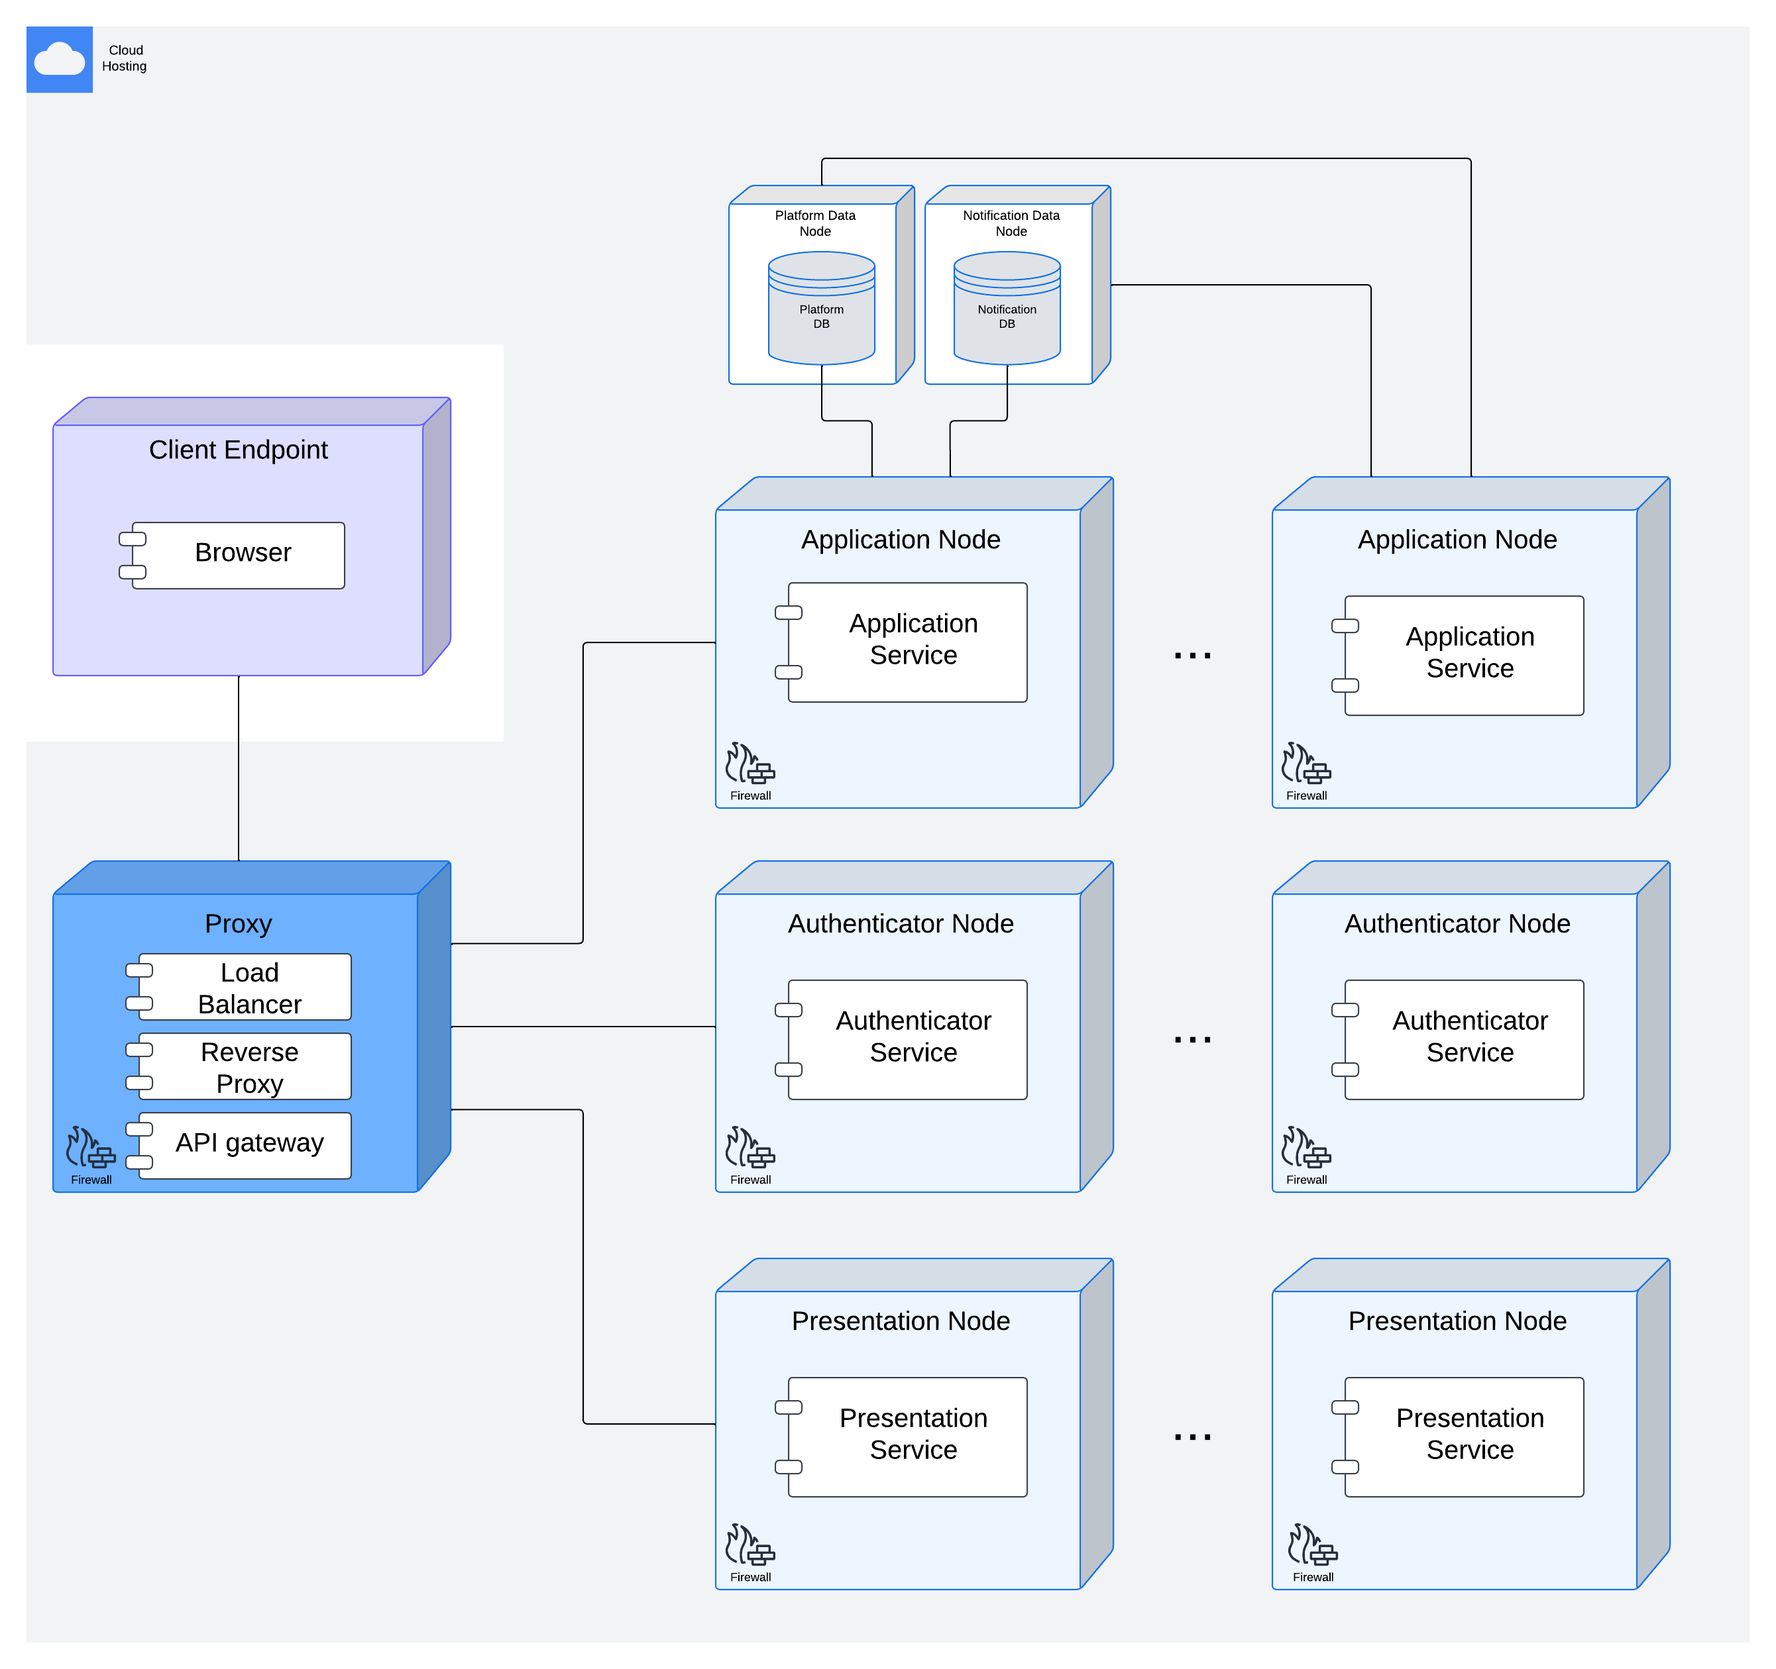
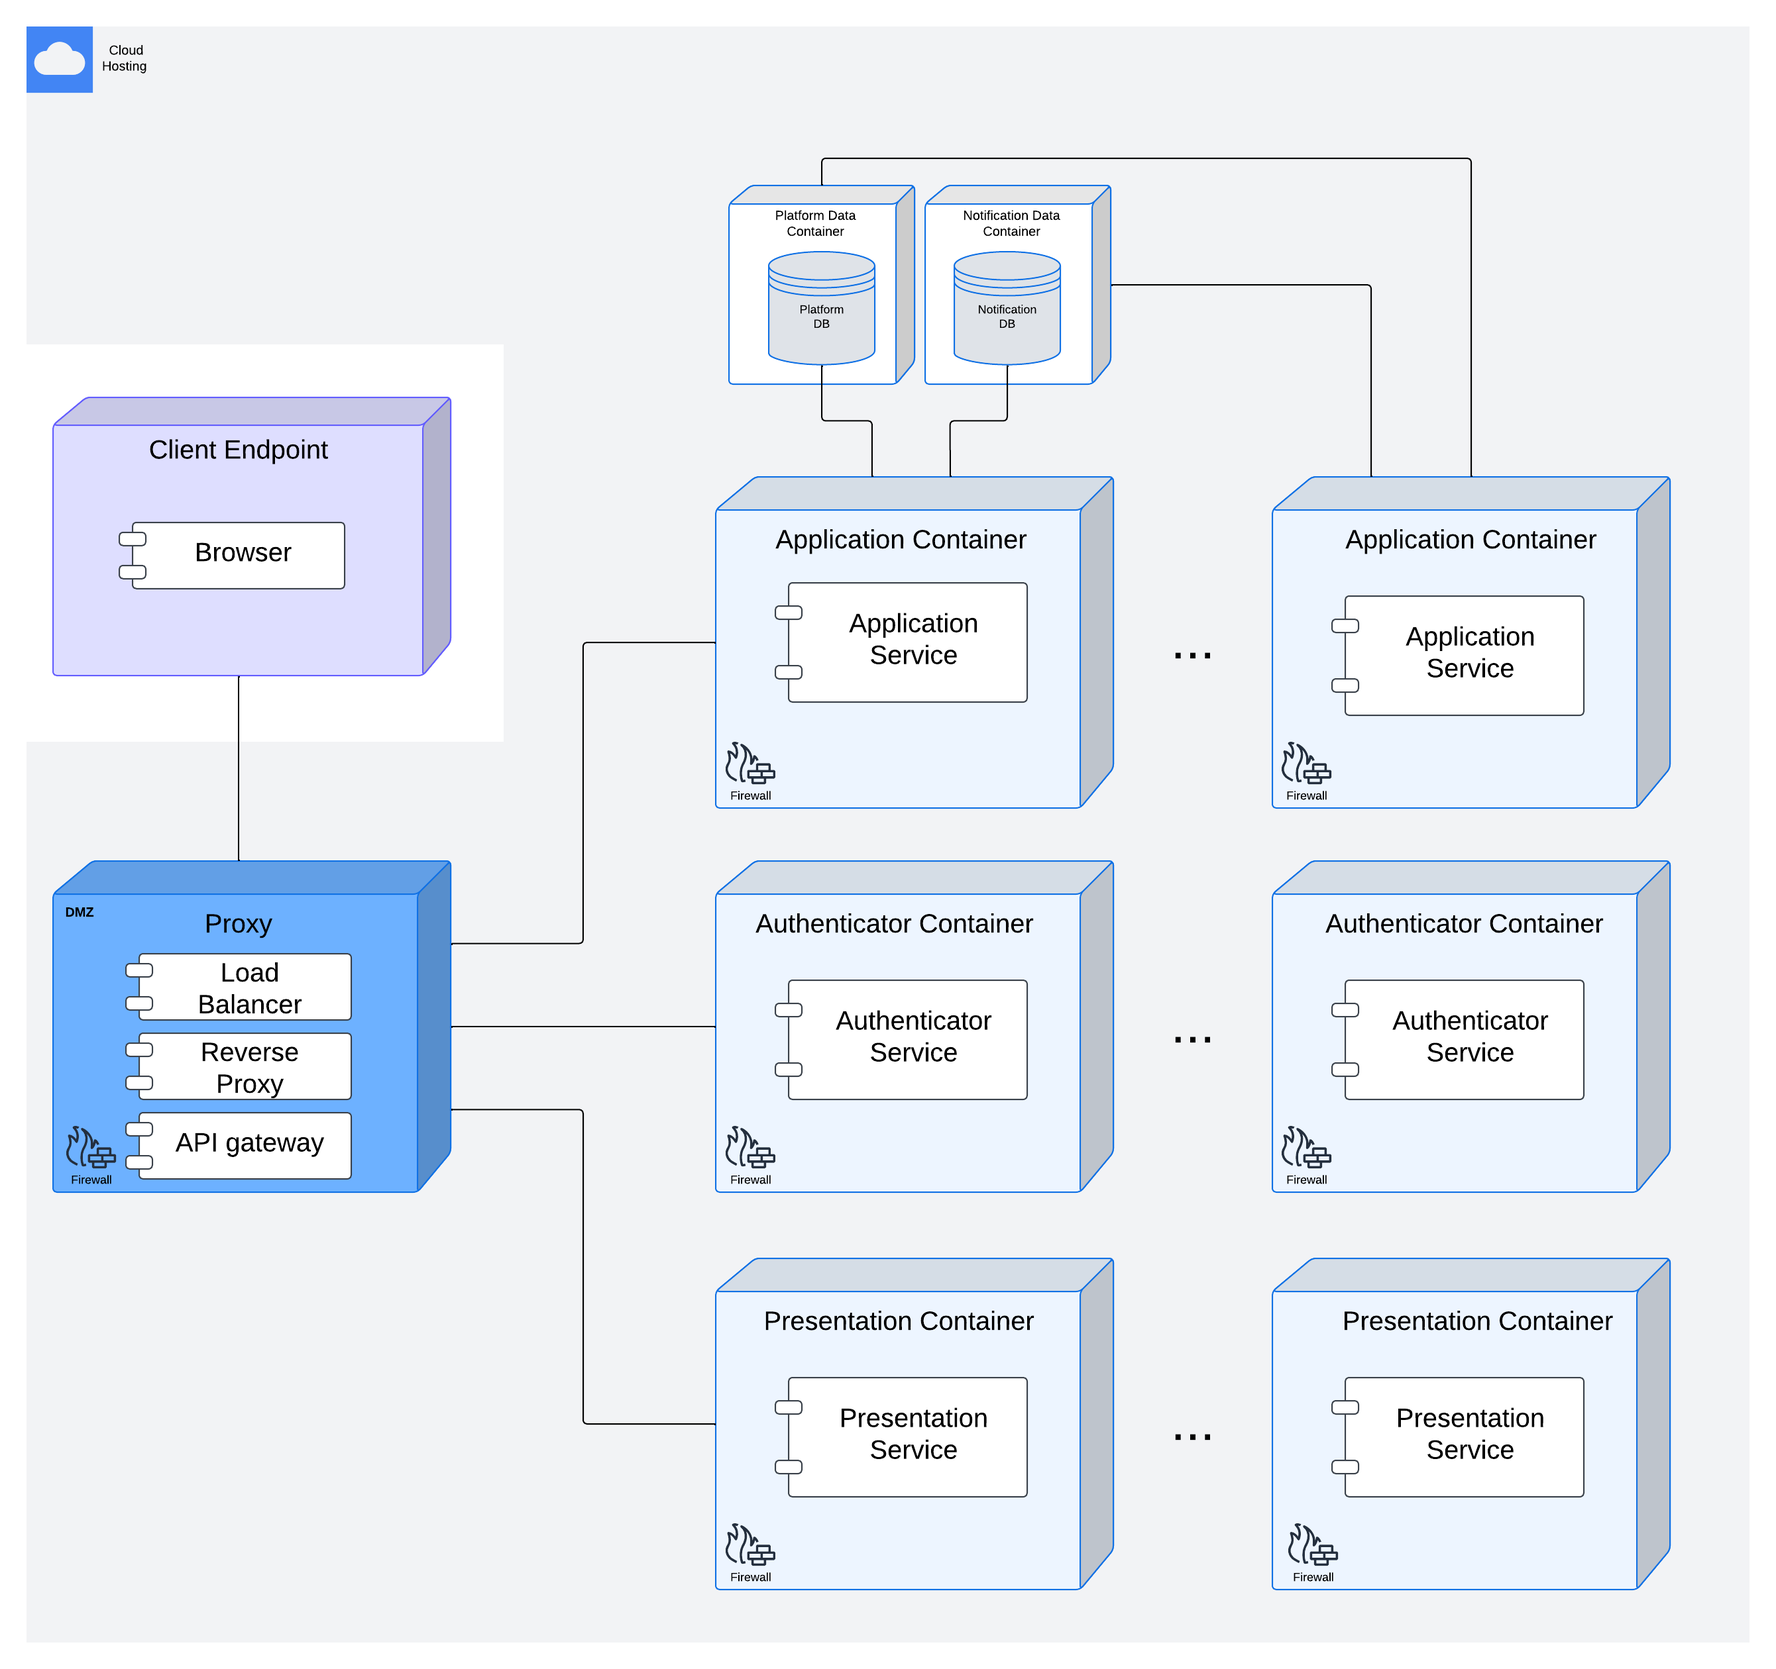
Refactor Chapter 2

diff --git a/DD.md b/DD.md
@@ -24,16 +24,13 @@ In the remaining part of this chapter we will present a summary of the technical
 
 ### 1.2 Scope
 
-This document, Design Document (DD), will provide a detailed description of the architecture of the S\&C platform from a more technical point of view. In particular it will provide a thorough description of the software with a special emphasis on its interfaces, system module, and architectural framework.
+This document, Design Document (DD), will provide a detailed description of the architecture of the S\&C platform from a more technical point of view. In particular it will provide a thorough description of the software with a special emphasis on its interfaces, system modules, and architectural framework.
 This document will also discuss the implementation, integration and testing plan describing the tools and methodologies that will be used during the development of the platform.
 <!-- (Sam 1h)-->
 
 #### 1.2.1 Main architectural choices
 
 The chosen architectural style is a *microservices architecture*, as it enables a scalable and modular approach to development. The three main services are Presentation, Application, and Authenticator, which are responsible for the user interface, business logic, and authentication, respectively. Data-intensive service manage their data through autonomous databases, ensuring modularity and scalability. For now, the databases are not designed to scale horizontally, meaning that when services using them are duplicated, the database remains a single, centralized instance. The Presentation layer provides the client with a Single Page Application (SPA) for a smoother user experience. The Application layer contains modules that handle platform-specific logic services, which could be exported as independent services in the future. This setup facilitates reliability and fault tolerance, as each service is designed to be container-based and can be scaled vertically or horizontally using cloud orchestration tools during deployment.
-<!-- 
-The architecture of the platform adopt a 3-tier architecture where the front-end is implemented using a web application that communicates with the back-end through a RESTful API.
-The back-end, implemented using the Spring framework, will be responsible for the business logic of the platform, as well as the communication to the database, as it will be described in the following chapters while the front-end, following a lightweight architecture, is responsible only for the presentation of the data and the interaction with the user and will be implemented using the React framework. -->
 
 ### 1.3 Definitions, Acronyms, Abbreviations
 
@@ -138,53 +135,86 @@ Finally, we present a deployment view of a full system deployment with redundant
 ## 2 Architectural Design
 
 The purpose of this chapter is to present a top-down description of the S&C architectural design, covering and justifying every design decision.
-We begin by introducing the high-level components and their interactions, followed by a detailed description of these components through the component view, focusing on their internal structure.
-Next, we address the deployment and conclude with runtime views, represented through sequence diagrams, to illustrate the interactions between the components.
+First, we introduce the high-level components and their interactions.
+Next, we proceed with a detailed description of these components.
+Subsequently, we define the deployment strategy.
+After that, we address the runtime interactions of the components and provide a more detailed description of their interfaces.
+Finally, we conclude by outlining the main patterns adopted and other relevant design decisions.
 
 ### 2.1 Overview: High-level components and their interaction
 
-The system employs a simple microservices architecture composed of the Presentation, Application, and Authenticator services, along with databases to manage the Application data. This microservices structure enables the system to be scalable and adaptable to increasing demand. Additionally, it supports deeper decoupling and modularization in the future, facilitating the management of growing service complexity.
+The system employs a simple microservices architecture composed of the Presentation, Application, and Authenticator services, along with databases to manage the Application data.
+This microservices structure enables the system to scale and adapt to increasing demand. Additionally, it supports greater decoupling and modularization, facilitating the management of growing service complexity in the future.
 
-Client access to server content is handled by a proxy, which routes requests to the appropriate service. When users navigate to the platform's main domain using a browser, the proxy directs them to the Presentation service, which is responsible for the user interface and experience. The web interface communicates with the Application service via a RESTful API, which handles the business logic. The Application interacts with the databases through an API that manages the ORM, data life cycles, and querying processes.
+Client access to server content is handled by a proxy, which routes requests to the appropriate service.
+When users navigate to the platform's main domain using a browser, the proxy directs them to the Presentation service, responsible for providing the user interface and experience.
 
-The Authenticator service handles user authentication. Non-public API calls pass through the proxy, acting as an API gateway, to verify that users have the necessary permissions to access requested resources.
+The web interface communicates with the Application service via a RESTful API that handles the business logic.
+All service calls from the client-hosted presentation layer pass through the proxy, which analyzes and forwards the requests.
+
+Requests requiring authentication are routed to the Authenticator service, which acts as middleware to handle all user authentication processes.
+If authentication succeeds, the request is forwarded to the Application service.
+
+The Application service interacts with databases through APIs that manage the ORM, data life cycles, and querying processes.
 
 ![Overview](./Diagrams/DD/Overview0.png)
 
-#### 2.1.1 Presentation Service
+#### Proxy
+
+Every type of communication between the services is routed through the Proxy, which dispatches it to the appropriate service. This means that the IP address of the server hosting the Proxy is the one bound to the application's main domain.
+
+#### Presentation Service
 
 The Presentation service delivers static content to the client upon connection to the platform's main domain. It also provides the client with the web scripts needed to call the APIs of the Application service, enabling the retrieval of user-specific data and triggering the platform's logic. During runtime, API calls to other services are initiated directly from the client's endpoints, rather than being forwarded through the Presentation service.
 
-#### 2.1.2 Authenticator Service
+#### Application Service
 
-API calls can be either public or private. Public calls are accessible to non-authenticated users, while private calls handle personal user data or sensitive logic and require authentication before they can be executed. All API calls are routed through the proxy, which determines the appropriate service based on the call type: private calls are directed to the Authenticator service for validation, while public calls are forwarded directly to the target service. This centralized approach to authentication ensures consistency across all services, eliminating the need for each service to handle authentication independently.
+The Application service contains the platform's core functionalities, including platform logic, database interaction, and notification handling. It exposes various RESTful API endpoints for the different services it provides. These endpoints can be either public or private. Public endpoints are accessible to non-authenticated users, while private endpoints handle personal user data or sensitive logic and require authentication before execution. Every call to these endpoints first reaches the Proxy, which forwards requests intended for private endpoints to the Authenticator service, while directing others directly to the target service.
 
-#### 2.1.3 Application Service
+#### Authenticator Service
 
-The Application service contains the platform core functionalities such as the platform logic, the interaction with the database and the notification handling. It exposes different APIs for all the different services it offers.
+The Authenticator service is responsible for every process concerning authentication and session validation.
+
+#### Databases
+
+The databases are managed by the Application service and are used to store all the data required by the platform. This setup could change in the future if an internal component of the Application service needs to be exported to an autonomous service, for example, due to increasing complexity or the need to decouple its development environment. Databases are not handled as autonomous services accessible by all other services; instead, they directly and exclusively interact with their corresponding service logic.
 
 ### 2.2 Component view
 
-This section presents a more in depth view of the software components part of the designed architecture and the needed interfaces between them.
+This section provides a more in-depth view of the software components that are part of the designed architecture, as well as the necessary interfaces between them.
+
 ![Overview](./Diagrams/DD/Component0.png)
 
 #### 2.2.1 Entity Manager
 
-This Entity Manager act as an API that enables the communication with a DBMS, simplifying ORM, querying, and data life cycles. It provides standard methods, independents from the specific DBMS used to handle the data. As shown by the diagram there are two entity managers. The \emph{Platform Entity Manager} provides its interface to the Platform Logic Module to let it interact with the \emph{Platform DBMS}. The \emph{Notification Entity Manager} act analogously with the \emph{Notification DBMS}.
+The Entity Manager acts as an API that enables communication with a DBMS, simplifying ORM, querying, and data life cycles. It provides standard methods, independent of the specific DBMS used to handle the data. As shown in the diagram, there are two Entity Managers. The Platform Entity Manager provides its interface to the Platform Logic Module, enabling interaction with the Platform DBMS. The Notification Entity Manager works analogously with the Notification DBMS.
 
 #### 2.2.2 Platform Logic
 
-This component exposes all the necessary interfaces to interact with the platform logic and also maintains up to date the database interacting with the Entity Manager. Its inner components are software pieces that enable managing every logic area of the platform, providing the right interfaces to other pieces that depend on them. Every \emph{Manager Component} autonomously operates the persistence and consistence of the relative relevant data within the DB using the interface provided by the Entity Manager. They also provide the \emph{API Controller} a set of methods to execute the logic without the need to care about the database interaction.
+The inner components of the Platform Logic encapsulate the logic of the main parts of the S&C environment. Each component autonomously handles its data management through the database, leveraging the Entity Manager interface.
+
+| **Component**          | **Description**                                        |
+|-------------------------|--------------------------------------------------------|
+| Recommendation Process  | Handles recommendation logic and related data          |
+| Communication Manager   | Manages communication logic and related data           |
+| Suggestion Mechanism    | Handles suggestions logic and related data             |
+| Feedback Mechanism      | Processes feedback logic and related data              |
+| Submission Manager      | Manages submission logic and related data              |
+| Interview Manager       | Handles interview-related logic and data               |
+| Account Manager         | Manages account logic and related data                 |
+| User Manager            | Interface for querying and modifying user groups with specific characteristics |
 
 ![PlatformComponent](./Diagrams/DD/Component1.png)
 
 #### 2.2.3 API Controller
 
-The API Controller contains a set of controllers whose methods, triggered by the user, interact and execute the platform logic. More information about the inner components and methods in section ADD LABEL
+The API Controller consists of a set of inner controllers whose methods, triggered by user calls, interact with and execute the logic of the Platform Logic inner components described above.
 
 #### 2.2.4 Notification Manager
 
-This component handles every need concerning the notifications, no matter what kind they are. It works as an adapter for external push notification provider and email service and provide an interface to fluently provide other service with those external features. It also creates and manage the corresponding in-app notifications that can be fetched by the user through a service specific API. This Component is a clear example of a service that could be easily exported to its own container in future by, for example, by providing its own RESTful API to the Platform logic instead of an interface object like the actual setup. 
+This component handles all notification-related needs, regardless of their type. It functions as an adapter for external push notification providers and email services, offering an interface to seamlessly integrate these external features with other services. It also creates and manages corresponding in-app notifications, which can be fetched by users through a dedicated AppNotification API.
+
+This component serves as a clear example of a service that could easily be exported to its own container in the future, for instance, by exposing its own RESTful API to the Platform Logic instead of using the current interface-based setup.
 
 ![NotificationComponent](./Diagrams/DD/Component2.png)
 
@@ -192,6 +222,7 @@ This component handles every need concerning the notifications, no matter what k
 
 Each service will be hosted on its own container being able to run independently on the same or on different machines. Containers, in addiction to make the development and deployment easier, also provide a good level of isolation and security.
 The system will be hosted on the cloud and its container based nature allows to easily integrate orchestrator tools to decouple it from the cloud hosting provider and automatically manage scalability, reliability, fault tolerance and global security of the microservices cluster.
+A DMZ can be implemented in this design by placing the Proxy in a dedicated network segment isolated from both the external network and the internal services. A firewall between the DMZ and the external network would allow only HTTP/HTTPS traffic to the Proxy, while another firewall between the DMZ and the internal network would restrict traffic to authorized services. This setup enhances security by exposing only the Proxy to external access, keeping the Application and Authenticator services, along with the databases, fully protected within the internal network.
 
 ![NotificationComponent](./Diagrams/DD/Deployment.png)
 
@@ -264,6 +295,11 @@ The system will be hosted on the cloud and its container based nature allows to 
 8. CompanyAcceptsSpontaneousApplication
 
     This sequence diagram depicts the process in which a Company accepts a Spontaneous Application from a Student. The Company initiates the action by clicking the "accept" button. The APIController calls the SubmissionManager to process the acceptance, and the application status is updated in the PlatformDBMS. Following the acceptance, an Interview between the Student and the Company is created and stored. The NotificationManager sends a notification to the Student . Finally, the Company receives a success message confirming the acceptance and interview creation.
+
+- i Message Objects nei codici 200, 201 sono oggetti generici e non vengono rappresentati nei sequence come accade per i messaggi di errore generici
+
+- specificare che verify parameters per le api call è esplicitato solo una volta e che però avviene una verifica sui parametri per ritornare 400 badrequest
+
 
 
 
